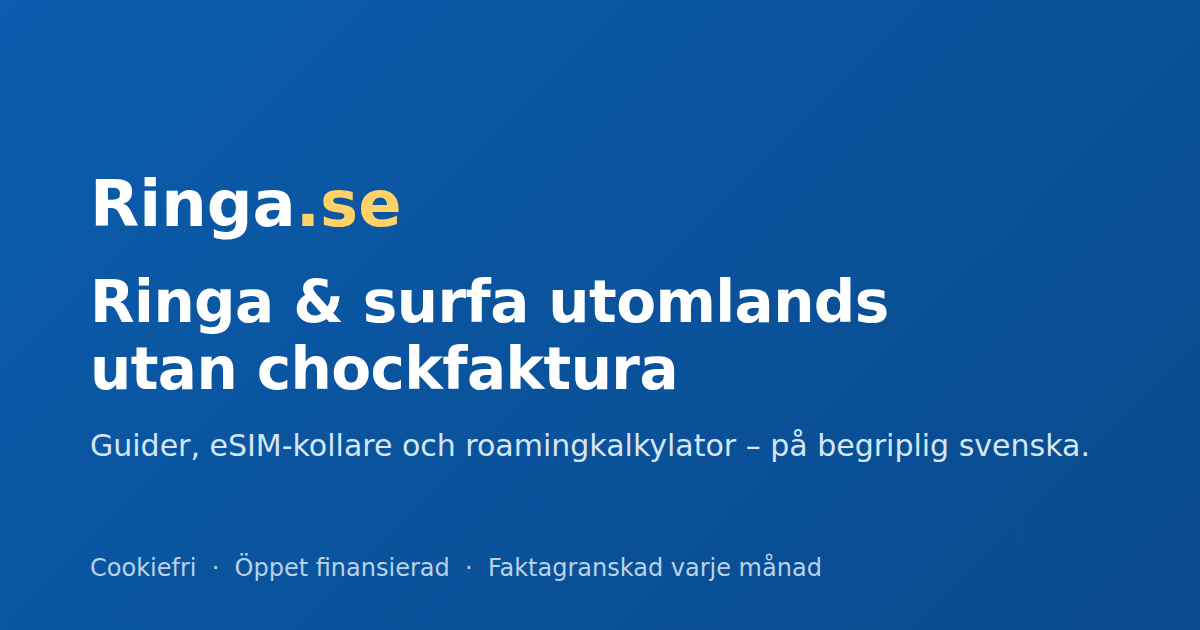
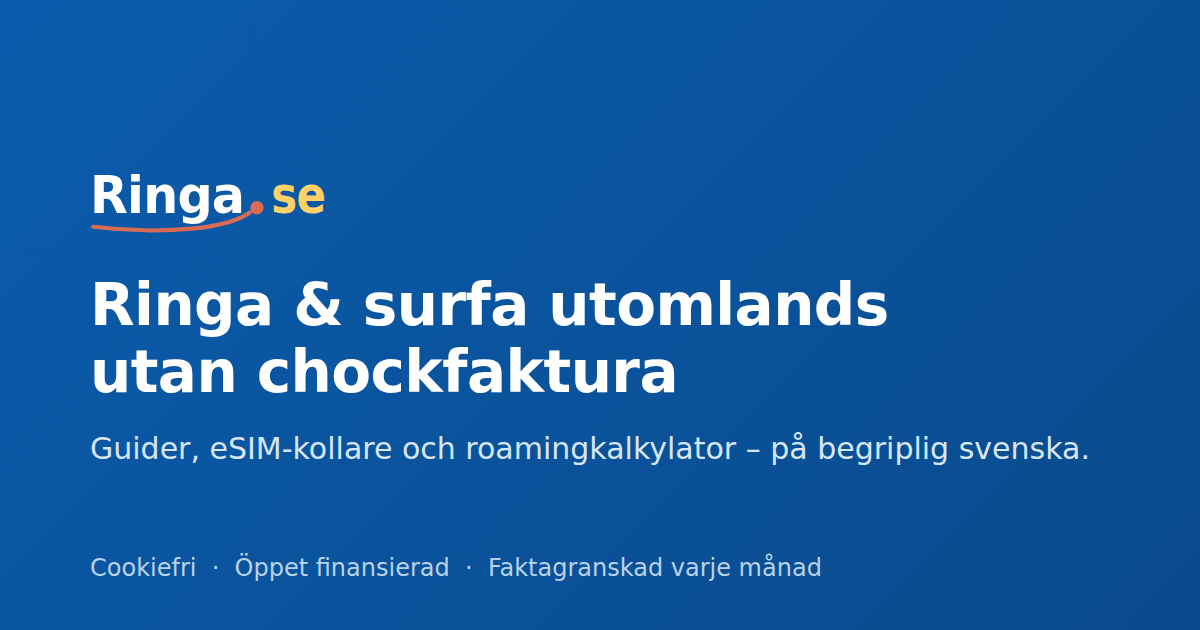
Logotyp och app-ikon: linjen och punkten som bärande koncept
Nytt SVG-ordmärke där korallinjen (resvägen) löper under "Ringa" och
stiger upp till punkten i ".se" - destinationspunkten, samma signatur
som i hero-bilden och sektionslinjerna. textLength låser kompositionen
oavsett plattformens systemfont. Ny favicon och apple-touch-icon med
SIM-formens avskurna hörn, R + linje och punkt. OG-bilden omgjord med
samma logotyp. Logolänken bär tillgängligt namn via aria-label.

Claude-Session: https://claude.ai/code/session_01GcERFGQgkXVGuwaxQ43q1G

diff --git a/src/styles/global.css b/src/styles/global.css
@@ -115,13 +115,12 @@ a:hover {
   padding-block: 0.8rem;
 }
 .site-logo {
-  font-weight: 700;
-  font-size: 1.25rem;
-  color: var(--color-text);
+  display: inline-flex;
+  align-items: center;
   text-decoration: none;
 }
-.site-logo span {
-  color: var(--color-accent);
+.site-logo .logotyp {
+  display: block;
 }
 .site-nav ul {
   list-style: none;
